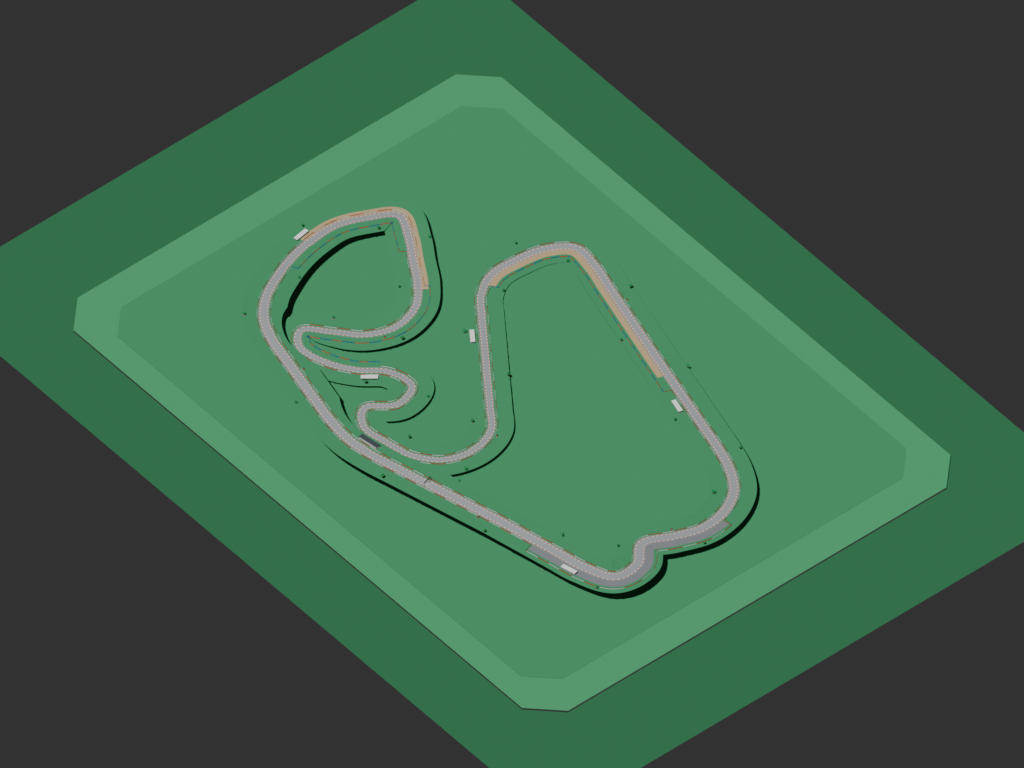
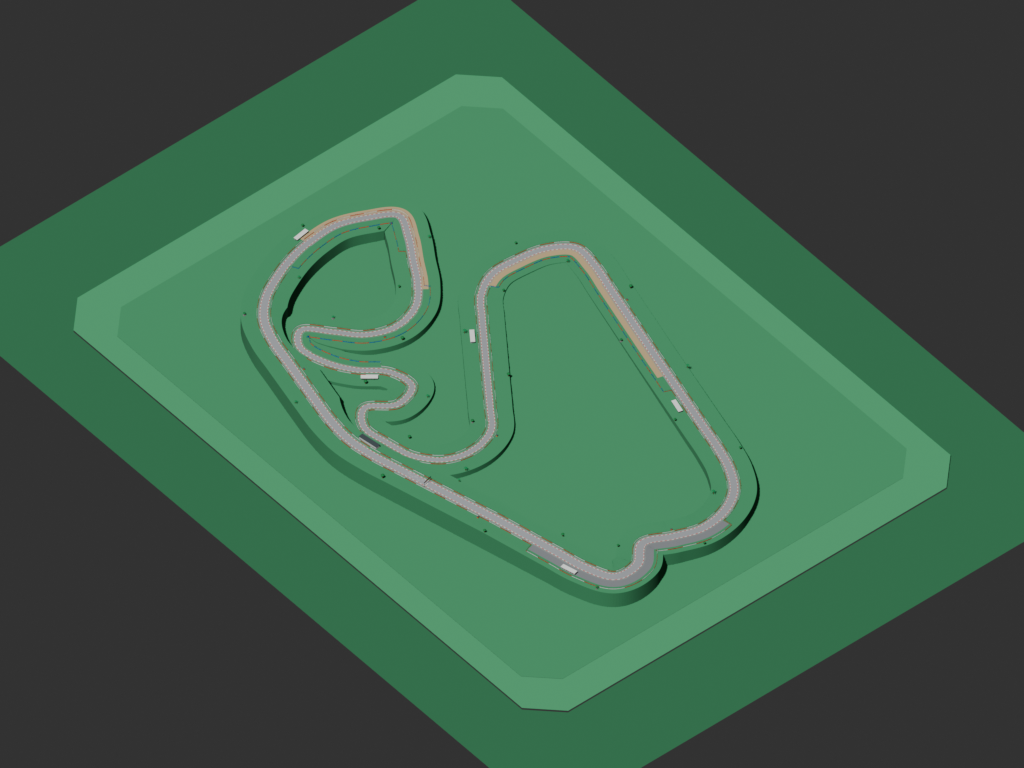
Support elevated grass on Interlagos and Silverstone

diff --git a/tools/blender/tracks/generate_tracks.py b/tools/blender/tracks/generate_tracks.py
@@ -97,6 +97,7 @@ TRACKS = {
         "start_phase": 0.0,
         "vegetation_setback_m": 29.0,
         "vegetation_canopy_clearance_m": 22.0,
+        "support_embankment_boundaries": True,
         "cpp_simulation_units_per_asset_unit": 17.0,
         "coordinate_unit": "meter",
     },
@@ -139,6 +140,7 @@ TRACKS = {
         "start_phase": 0.0,
         "vegetation_setback_m": 29.0,
         "vegetation_canopy_clearance_m": 22.0,
+        "support_embankment_boundaries": True,
         "cpp_simulation_units_per_asset_unit": 17.0,
         "coordinate_unit": "meter",
     },
@@ -907,7 +909,8 @@ def make_starting_grid_slots(samples, half_widths, bank_angles, start_phase, tar
 
 
 def make_embankment(samples, half_widths, bank_angles, material, parent, projector,
-                    surface_offset, detail_scale=1.0, skip_indices=None):
+                    surface_offset, detail_scale=1.0, skip_indices=None,
+                    support_datum_z=None):
     """Create sloped terrain shoulders from the road grade to the island datum."""
     verts, faces = [], []
     skip_indices = set(skip_indices or ())
@@ -947,7 +950,37 @@ def make_embankment(samples, half_widths, bank_angles, material, parent, project
     obj["nearest_section_grounding"] = True
     obj["radial_step_m"] = GROUND_RADIAL_STEP_METERS
     obj["underlay_gap_m"] = EMBANKMENT_UNDERLAY_GAP_METERS
-    return obj
+    support = None
+    if support_datum_z is not None:
+        # Bisector clipping leaves open edges where an elevated shoulder meets
+        # the low infield. From the T-cam those unbacked grass sheets read as
+        # bridges. Close every exposed edge except the runoff seam down to the
+        # opaque infield datum so the shoulder has a visible earth face.
+        edge_uses = {}
+        for face in faces:
+            for edge_index, first in enumerate(face):
+                second = face[(edge_index + 1) % len(face)]
+                key = (min(first, second), max(first, second))
+                edge_uses[key] = edge_uses.get(key, 0) + 1
+        support_vertices, support_faces = [], []
+        for (first, second), uses in edge_uses.items():
+            if uses != 1 or (first % row_width == 0 and second % row_width == 0):
+                continue
+            top_first, top_second = verts[first], verts[second]
+            if max(top_first[2], top_second[2]) <= support_datum_z + 0.01:
+                continue
+            base = len(support_vertices)
+            support_vertices.extend((top_first, top_second,
+                                     (top_second[0], top_second[1], support_datum_z),
+                                     (top_first[0], top_first[1], support_datum_z)))
+            support_faces.append((base, base + 1, base + 2, base + 3))
+        support = mesh_object("track_embankment_support", support_vertices, support_faces,
+                              [material], parent=parent)
+        support["closes_exposed_embankment_edges"] = True
+        support["supported_boundary_edges"] = len(support_faces)
+        support["support_datum_z"] = support_datum_z
+        obj["boundary_support_object"] = support.name
+    return obj, support
 
 
 def find_crossover(samples):
@@ -1357,8 +1390,10 @@ def make_world(slug, spec):
     if crossing:
         upper = crossing["upper_station"]
         bridge_skip = {(upper+offset) % SAMPLES for offset in range(-15,16)}
-    make_embankment(center, half_widths, bank_angles, materials["grass"], terrain,
-                    ground_projector, surface_offset, detail_scale, bridge_skip)
+    _, embankment_support = make_embankment(
+        center, half_widths, bank_angles, materials["grass"], terrain,
+        ground_projector, surface_offset, detail_scale, bridge_skip,
+        infield_z if spec.get("support_embankment_boundaries") else None)
     make_track_runoff(center, half_widths, materials["shoulder"], circuit,
                       ground_projector, surface_offset)
     make_strip("track_surface", center, half_widths, surface_offset, materials["asphalt"],
@@ -1519,6 +1554,8 @@ def make_world(slug, spec):
                                     "verge": sand_z,
                                     "infield": infield_z},
         "grounded_instances": grounded_instances,
+        "embankment_support": (embankment_support.name if embankment_support else None),
+        "embankment_support_datum": (infield_z if embankment_support else None),
         "vegetation_setback": vegetation_setback,
         "vegetation_canopy_clearance": vegetation_clearance,
         "barrier_grounding": barrier_grounding,
@@ -1641,6 +1678,8 @@ def export_track(slug, spec, output_root):
     if info["bridge"]:
         material_roles["bridge"] = "bridge_concrete"
         required_nodes.append("suzuka_bridge_structure")
+    if info["embankment_support"]:
+        required_nodes.append(info["embankment_support"])
     metadata = {
         "schema_version": 1,
         "asset": slug,
@@ -1741,6 +1780,8 @@ def export_track(slug, spec, output_root):
             "vegetation_setback_asset_units": info["vegetation_setback"],
             "vegetation_canopy_clearance_asset_units": info["vegetation_canopy_clearance"],
             "outer_edge_follows_local_centerline": True,
+            "embankment_boundary_support": bool(info["embankment_support"]),
+            "embankment_support_datum_asset_units": info["embankment_support_datum"],
             "tolerance_asset_units": 0.002,
             "instances": info["grounded_instances"],
             "barrier_samples": len(info["barrier_grounding"]),

diff --git a/tools/blender/tracks/verify_tracks.py b/tools/blender/tracks/verify_tracks.py
@@ -487,6 +487,22 @@ def verify(root: Path, slug: str):
             not embankment.get("nearest_section_grounding") or
             embankment.get("radial_step_m") != GROUND_RADIAL_STEP_METERS):
         raise ValueError(f"{slug}: terrain shoulder tessellation contract changed")
+    expects_embankment_support = bool(spec.get("support_embankment_boundaries"))
+    if bool(grounding.get("embankment_boundary_support")) != expects_embankment_support:
+        raise ValueError(f"{slug}: embankment boundary support metadata is stale")
+    if expects_embankment_support:
+        support = bpy.data.objects.get("track_embankment_support")
+        support_datum = grounding.get("embankment_support_datum_asset_units")
+        if (support is None or not support.get("closes_exposed_embankment_edges") or
+                support.get("support_datum_z") != support_datum or
+                support.get("supported_boundary_edges") != len(support.data.polygons) or
+                not support.data.polygons):
+            raise ValueError(f"{slug}: elevated grass embankment has unsupported boundaries")
+        if any(abs(support.data.vertices[index].co.z - support_datum) > tolerance
+               for polygon in support.data.polygons for index in polygon.vertices[2:]):
+            raise ValueError(f"{slug}: embankment support does not reach the infield datum")
+    elif "track_embankment_support" in bpy.data.objects:
+        raise ValueError(f"{slug}: unexpected embankment boundary support")
     if ("embankment_underlay_gap_asset_units" in grounding and
             embankment.get("underlay_gap_m") != EMBANKMENT_UNDERLAY_GAP_METERS):
         raise ValueError(f"{slug}: terrain underlay can z-fight with runoff surfaces")

diff --git a/tools/blender/tracks/README.md b/tools/blender/tracks/README.md
@@ -16,6 +16,9 @@ tarmac, continuous track-limit lines, bank-following curbs, profiled grass,
 gravel and asphalt runoff, concrete/Tecpro safety barriers, and catch fencing.
 Grounded combined meshes provide grandstands and spectators, pit facilities,
 marshal posts and vegetation while keeping the runtime draw-call count bounded.
+Interlagos and Silverstone also close exposed elevated shoulder boundaries down
+to the infield datum. These support faces keep clipped lawn meshes from reading
+as unsupported bridges beside nearby track sections.
 
 `verify_tracks.py` treats those presentation details as runtime contracts. It
 checks opaque material parity between BLEND and GLB, asphalt luminance,